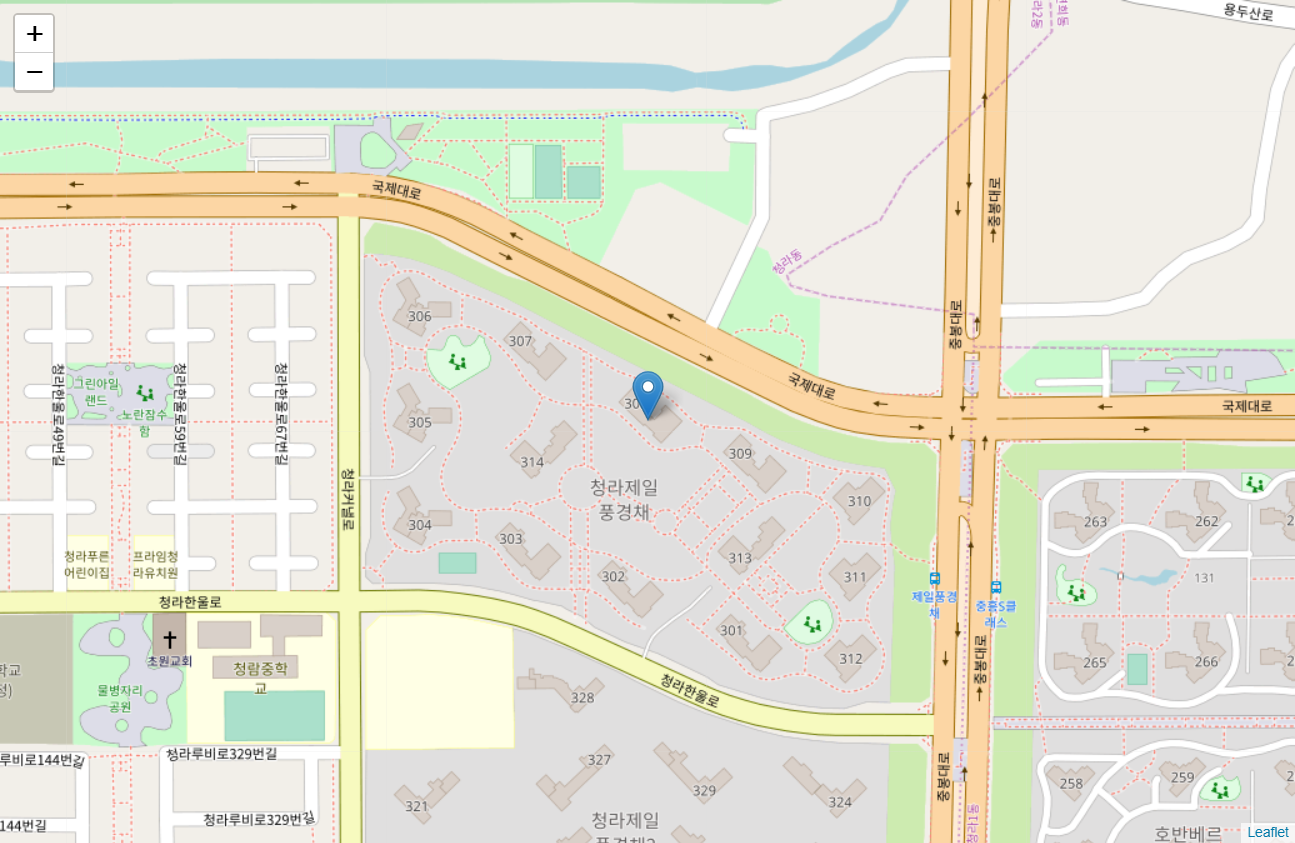
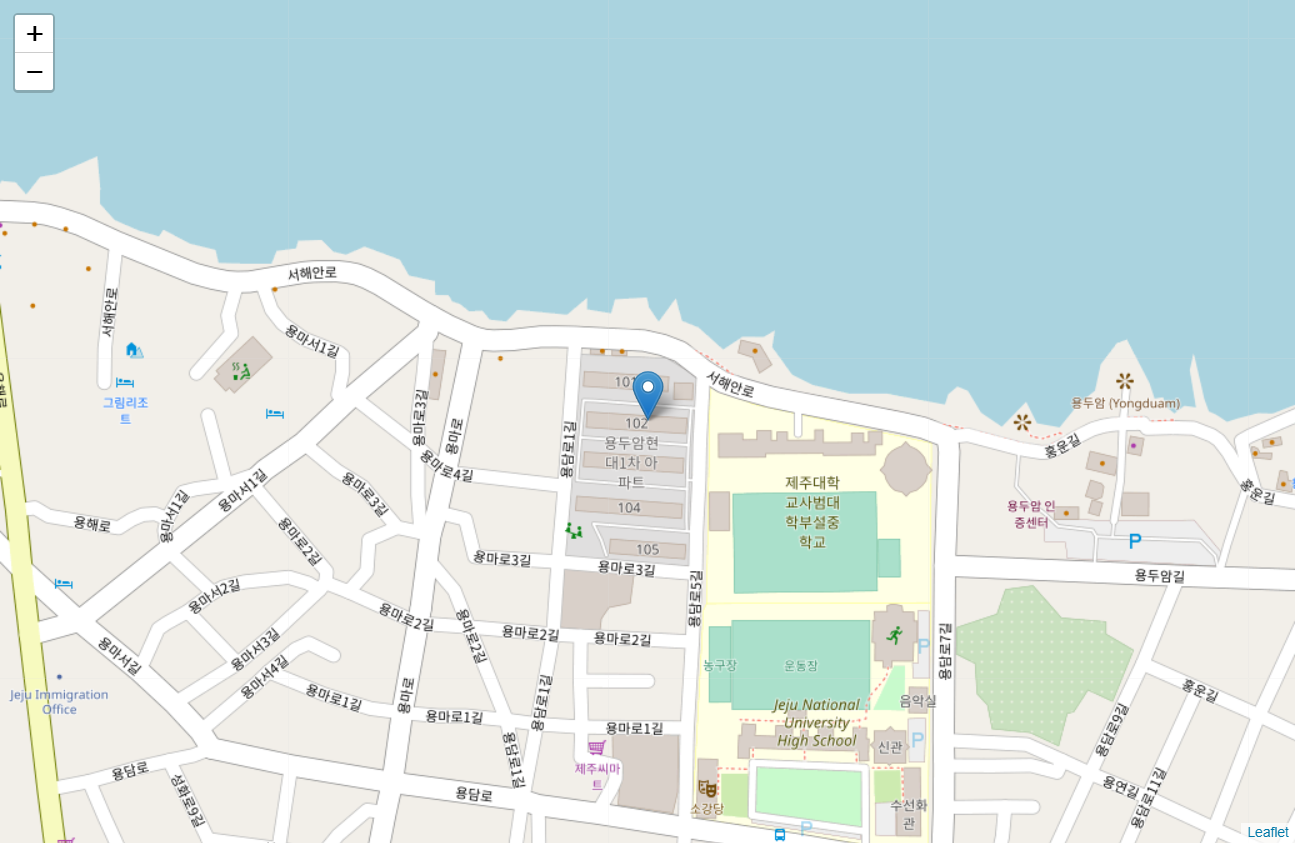
이메일 전송(이미지 x)
주소는 전송이되나
아직 이미지를 넣지못함

diff --git a/ShildMap.html b/ShildMap.html
@@ -17,7 +17,7 @@
     
     <meta name="viewport" content="width=device-width,
         initial-scale=1.0, maximum-scale=1.0, user-scalable=no" />
-    <style>#map_002b5bceeec84479bdebfe8e31ecf5d7 {
+    <style>#map_bf004f4a384047178d44d2d57dd0ce7d {
         position: relative;
         width: 100.0%;
         height: 100.0%;
@@ -28,7 +28,7 @@
 </head>
 <body>    
     
-    <div class="folium-map" id="map_002b5bceeec84479bdebfe8e31ecf5d7" ></div>
+    <div class="folium-map" id="map_bf004f4a384047178d44d2d57dd0ce7d" ></div>
 </body>
 <script>    
     
@@ -36,9 +36,9 @@
         var bounds = null;
     
 
-    var map_002b5bceeec84479bdebfe8e31ecf5d7 = L.map(
-        'map_002b5bceeec84479bdebfe8e31ecf5d7', {
-        center: [37.540292, 126.647139],
+    var map_bf004f4a384047178d44d2d57dd0ce7d = L.map(
+        'map_bf004f4a384047178d44d2d57dd0ce7d', {
+        center: [33.515764, 126.507906],
         zoom: 17,
         maxBounds: bounds,
         layers: [],
@@ -49,7 +49,7 @@
 
 
     
-    var tile_layer_373869a94e3141f48e0700b91a1fb471 = L.tileLayer(
+    var tile_layer_934e2ec30b5843e3a1c61e9b60919d7d = L.tileLayer(
         'https://{s}.tile.openstreetmap.org/{z}/{x}/{y}.png',
         {
         "attribution": null,
@@ -61,26 +61,26 @@
         "opacity": 1,
         "subdomains": "abc",
         "tms": false
-}).addTo(map_002b5bceeec84479bdebfe8e31ecf5d7);
+}).addTo(map_bf004f4a384047178d44d2d57dd0ce7d);
     
-        var marker_4894486e63e54d79bc551cf21e816651 = L.marker(
-            [37.540292, 126.647139],
+        var marker_75f2b8f99924470ebb1201835bef86cf = L.marker(
+            [33.515764, 126.507906],
             {
                 icon: new L.Icon.Default(),
                 }
-            ).addTo(map_002b5bceeec84479bdebfe8e31ecf5d7);
+            ).addTo(map_bf004f4a384047178d44d2d57dd0ce7d);
         
     
-            var popup_4f1b2ad13b634eaba1ab09794f9896d6 = L.popup({maxWidth: '100%'
+            var popup_518431e6d2424adc861a362d6c0633c0 = L.popup({maxWidth: '100%'
             
             });
 
             
-                var html_62f223847528471d9627c4e53629c75b = $(`<div id="html_62f223847528471d9627c4e53629c75b" style="width: 100.0%; height: 100.0%;">Shild</div>`)[0];
-                popup_4f1b2ad13b634eaba1ab09794f9896d6.setContent(html_62f223847528471d9627c4e53629c75b);
+                var html_466da78d2fb34f60b566310246ca3265 = $(`<div id="html_466da78d2fb34f60b566310246ca3265" style="width: 100.0%; height: 100.0%;">Shild</div>`)[0];
+                popup_518431e6d2424adc861a362d6c0633c0.setContent(html_466da78d2fb34f60b566310246ca3265);
             
 
-            marker_4894486e63e54d79bc551cf21e816651.bindPopup(popup_4f1b2ad13b634eaba1ab09794f9896d6)
+            marker_75f2b8f99924470ebb1201835bef86cf.bindPopup(popup_518431e6d2424adc861a362d6c0633c0)
             ;
 
             

diff --git a/logo.html b/logo.html
@@ -1,0 +1,8 @@
+<html>
+<header></header>
+<body>
+<b>welcome to the python world</b><br>
+<img src="http://www.python.org/images/python-logo.gif"/>
+<p>test mail</p>
+</body>
+</html>

diff --git a/gmail.py b/gmail.py
@@ -4,34 +4,52 @@ import mysmtplib
 import framework
 from email.mime.base import MIMEBase
 from email.mime.text import MIMEText
+from email.mime.image import MIMEImage
+import smtplib
+from email.message import EmailMessage
+from email.mime.application import MIMEApplication
 
-def sendMail(reciever):
-    #string="도로명 주소 : "+Shelter.rddr+"\n"
-    #string+="지번 주소 : "+Shelter.addr+"\n"
-    #string+="시설명 : "+Shelter.facility_name+"\n"
+
+
+def sendMail(Shelter,reciever):
+    string="도로명 주소 : "+Shelter.rddr+"\n"
+    string+="지번 주소 : "+Shelter.addr+"\n"
+    string+="시설명 : "+Shelter.facility_name+"\n"
+
+    imageFileName = "Shild_Main_Map.png"
 
     # global value
     host = "smtp.gmail.com"  # Gmail STMP 서버 주소.
     port = "587"
-    htmlFileName = "ShildMap.html"
+    #htmlFileName = "ShildMap.html"
 
     senderAddr = "ehdrpakt@gmail.com"  # 보내는 사람 email 주소.
     recipientAddr = reciever  # 받는 사람 email 주소.
 
-    #msg = MIMEBase("multipart", "alternative")
+    msg = MIMEBase("multipart", "alternative")
 
-    msg =MIMEText("test")
+    a =MIMEText(string)
     msg['Subject'] = "대피소 정보"  # 제목
     msg['From'] = senderAddr
     msg['To'] = recipientAddr
 
+
+
+
+
     # MIME 문서를 생성합니다.
-    htmlFD = open(htmlFileName, 'rb')
-    HtmlPart = MIMEText(htmlFD.read(), 'html', _charset='UTF-8')
-    htmlFD.close()
+    #htmlFD = open(htmlFileName, 'rb')
+    #HtmlPart = MIMEText(htmlFD.read(), 'html', _charset='UTF-8')
+    #htmlFD.close()
+
+    #imageFD = open(imageFileName, 'rb')
+    #ImagePart = MIMEImage(imageFD.read())
+    #imageFD.close()
 
     # 만들었던 mime을 MIMEBase에 첨부 시킨다.
     #msg.attach(HtmlPart)
+    msg.attach(a)
+    #msg.attach(ImagePart)
 
     # 메일을 발송한다.
     s = mysmtplib.MySMTP(host, port)
@@ -46,7 +64,7 @@ def sendMail(reciever):
     pass
 
 
-sendMail("ehdrpakt@naver.com")
+
 
 
 

diff --git a/searchState.py b/searchState.py
@@ -1,4 +1,5 @@
 import gmail
+
 from tkinter import*
 from tkinter import ttk
 
@@ -77,6 +78,11 @@ class SearchState:
                 framework.bookMarkList.append(shelter)
             pass
     def sendMail(self):
+        if self.listbox.size():
+            n=self.listbox.curselection()
+            shelter=self.itemList[n[0]]
+            gmail.sendMail(shelter,self.mEntry.get())
+
         pass
     def selectValue(self):
         if self.listbox.size():
